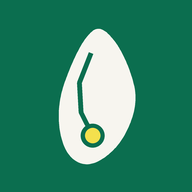
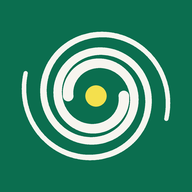
Add files via upload

Changed region(s): [[0.0938, 0.125, 0.9062, 0.875]]

diff --git a/index.html b/index.html
@@ -158,6 +158,18 @@ body{
 .empty{color:var(--mute);font-size:16px;line-height:1.8;padding:16px 0}
 
 .pin{border-radius:50%;border:2.5px solid #fff;box-shadow:0 1px 4px rgba(0,0,0,.35)}
+.facepick{
+  position:absolute;left:12px;bottom:16px;z-index:500;display:flex;gap:6px;
+  background:rgba(247,245,239,.92);border-radius:999px;padding:5px;
+  box-shadow:0 2px 8px rgba(31,38,34,.22)
+}
+.facepick button{
+  width:32px;height:32px;padding:0;border:2px solid transparent;border-radius:50%;
+  background:none;cursor:pointer;overflow:hidden;line-height:0
+}
+.facepick button img{width:100%;height:100%;border-radius:50%;display:block;object-fit:cover}
+.facepick button[aria-pressed=true]{border-color:var(--ink)}
+
 .avatar{
   width:100%;height:100%;border-radius:50%;display:block;
   border:3px solid #fff;box-shadow:0 3px 10px rgba(31,38,34,.42);
@@ -189,7 +201,14 @@ body{
 <body>
 
 <div class="left">
-  <div id="map"><div class="milestone"><div class="km">—<i>km</i></div><div class="sub">載入中</div></div></div>
+  <div id="map">
+    <div class="milestone"><div class="km">—<i>km</i></div><div class="sub">載入中</div></div>
+    <div class="facepick" id="facepick" aria-label="換一個地瓜">
+      <button type="button" data-face="photo"><img src="digua.png" alt="手繪頭像"></button>
+      <button type="button" data-face="potato"><img src="marker-potato.png" alt="番薯"></button>
+      <button type="button" data-face="typhoon"><img src="marker-typhoon.png" alt="颱風"></button>
+    </div>
+  </div>
 </div>
 
 <div class="right">
@@ -213,7 +232,7 @@ body{
 <script src="https://unpkg.com/leaflet@1.9.4/dist/leaflet.js"></script>
 <script>
 const API_URL = 'https://script.google.com/macros/s/AKfycbxHZleW9xm1otyoOxck_2M5N8Ux_8trtr92LnVCN6cRMkXOsyc2gZ2DTFO-KtngFS5V/exec';
-const BUILD = 'R3.6';
+const BUILD = 'R3.7';
 
 const COLORS = { '出發':'#0B6E4F', '打卡':'#C99A1E', '休息':'#6E8090', '收工':'#1F2622' };
 const $ = function(id){ return document.getElementById(id); };
@@ -230,6 +249,21 @@ let DAYS = [];        // 依日期分好的每一天
 let sel = null;       // 選中的第幾天；null = 全程
 let LEGS = [];        // 分好的路段
 let GROUP = localStorage.getItem('digua_group') === 'week' ? 'week' : 'city';
+
+const FACES = { photo:'digua.png', potato:'marker-potato.png', typhoon:'marker-typhoon.png' };
+let FACE = FACES[localStorage.getItem('digua_face')] ? localStorage.getItem('digua_face') : 'photo';
+
+document.querySelectorAll('.facepick button').forEach(function(b){
+  b.setAttribute('aria-pressed', String(b.dataset.face === FACE));
+  b.addEventListener('click', function(){
+    FACE = b.dataset.face;
+    localStorage.setItem('digua_face', FACE);
+    document.querySelectorAll('.facepick button').forEach(function(x){
+      x.setAttribute('aria-pressed', String(x.dataset.face === FACE));
+    });
+    if (DATA) drawMap();
+  });
+});
 let booted = false;   // 是否已完成第一次載入
 let refit = true;     // 這次要不要重新框地圖範圍
 
@@ -530,7 +564,7 @@ function drawMap(){
     const size = isNow ? 48 : 11;
     const html = isNow
       ? '<div class="here" style="width:48px;height:48px">' +
-        '<img class="avatar" src="digua.png" alt="陳地瓜"></div>'
+        '<img class="avatar" src="' + FACES[FACE] + '" alt="陳地瓜"></div>'
       : '<div class="pin" style="width:11px;height:11px;background:' +
         (COLORS[p.type] || '#1F2622') + '"></div>';
     L.marker([p.lat, p.lng], {

diff --git a/README.md b/README.md
@@ -92,6 +92,12 @@ https://你的網域/checkin.html?t=你設定的CHECKIN_TOKEN
 
 點「第 8 天」就只看那天：地圖縮到那天的路段，其餘路線淡淡留著當底圖；下面是那天的完整記錄——從哪走到哪、直線幾公里、幾次打卡、幾張照片，接著是逐筆的時間軸和照片。點「全程」看整趟。
 
+**換一個地瓜**　地圖左下角有三顆小圓，切換目前位置的標記形象：手繪頭像、番薯（台灣本來就是番薯島）、颱風（環島就是繞著轉一圈）。選擇記在各自的瀏覽器裡，好友各看各的，互不影響。
+
+**每天一個顏色**　路線逐日上色，八色循環（深綠、磚紅、靛藍、土黃、紫、藍綠、酒紅、橄欖）。相鄰的日子一定差很多，看得出哪裡換日；同色要隔八天才重複，那時已經走到島的另一邊，不會誤認。日期膠囊和日記區塊的左側色條用同一個顏色，三處對得起來。
+
+隔夜的接續用灰色細虛線帶過，不假裝是連續走的。滑過線段會顯示「第 N 天　28.5 km」。
+
 最左邊還有一顆「照片」，切過去是整面的照片牆——三欄方格、依天分組、由新到舊，一眼掃完整趟。牆上載的是 400px 縮圖，點開才抓大圖，所以照片再多也不會拖垮手機流量。
 
 網址會跟著變：某一天是 `#d8`、某段縣市是 `#leg:台東縣-21`、全程是 `#all`、照片牆是 `#photos`、留言板是 `#board`，都可以直接傳給人。照片點一下放大，Esc 或再點一下關掉。
